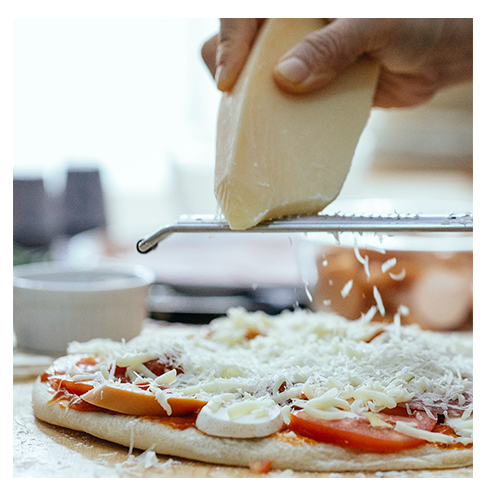
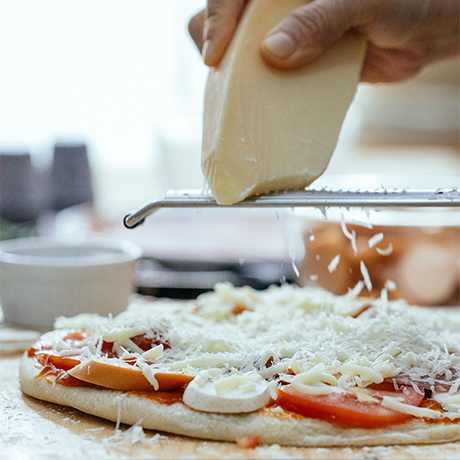
Resize images and fix spacing on text under photos

diff --git a/locations.html b/locations.html
@@ -74,36 +74,27 @@
     </nav>
 
     <header></header>
-    <main>
-      <section class="container">
-        <h1 class="my-5">Locations</h1>
-      </section>
-      <div>
-        <div>
+    <main class="container">
+      <h1 class="my-5">Locations</h1>
+      <div class="row">
+        <div class="col-xl-4">
           <h2>Rock Hill</h2>
-          <img src="images/rockhill-location.png" alt="Pizza in brick oven at Rockhill restaurant" title="Pizza in Oven">
-          <p>1405 Riverchase Blvd,</p>
-          <p>Rock Hill, SC 29732</p>
-          <p>(803) 980-0522</p>
+          <img src="images/rockhill-location.png" alt="Pizza in brick oven at Rockhill restaurant" title="Pizza in Oven" width="350px">
+          <p>1405 Riverchase Blvd <br> Rock Hill, SC 29732 <br> (803) 980-0522</p>
           <p>Open daily 11:00 am - 10:00 pm</p>
         </div>
 
-        <div>
+        <div class="col-xl-4">
           <h2>Newport</h2>
-          <img src="images/newport-location.png" alt="Pizza being prepared at Newport location" title="Preparing Pizza">
-          <p>4811 Old York Rd #106,</p>
-          <p>Rock Hill, SC 29732</p>
-          <p>(803) 985-2337</p>
+          <img src="images/newport-location.png" alt="Pizza being prepared at Newport location" title="Preparing Pizza" width="350px">
+          <p>4811 Old York Rd #106, <br>Rock Hill, SC 29732 <br> (803) 985-2337</p>
           <p>Open daily 11:00 am - 10:00 pm</p>
         </div>
 
-
-        <div>
-          <h2>Rock Hill</h2>
-          <img src="images/fortmill-location.png" alt="Pizza being served at Fort Mill restaurant" title="Pizza Being Served">
-          <p>1504 Carolina Pl Dr,</p>
-          <p>Fort Mill, SC 29708</p>
-          <p>(803) 592-3397</p>
+        <div class="col-xl-4">
+          <h2>Fort Mill</h2>
+          <img src="images/fortmill-location.png" alt="Pizza being served at Fort Mill restaurant" title="Pizza Being Served" width="350px">
+          <p>1504 Carolina Pl Dr,<br>Fort Mill, SC 29708 <br>(803) 592-3397</p>
           <p>Open daily 11:00 am - 10:00 pm</p>
         </div>
 
